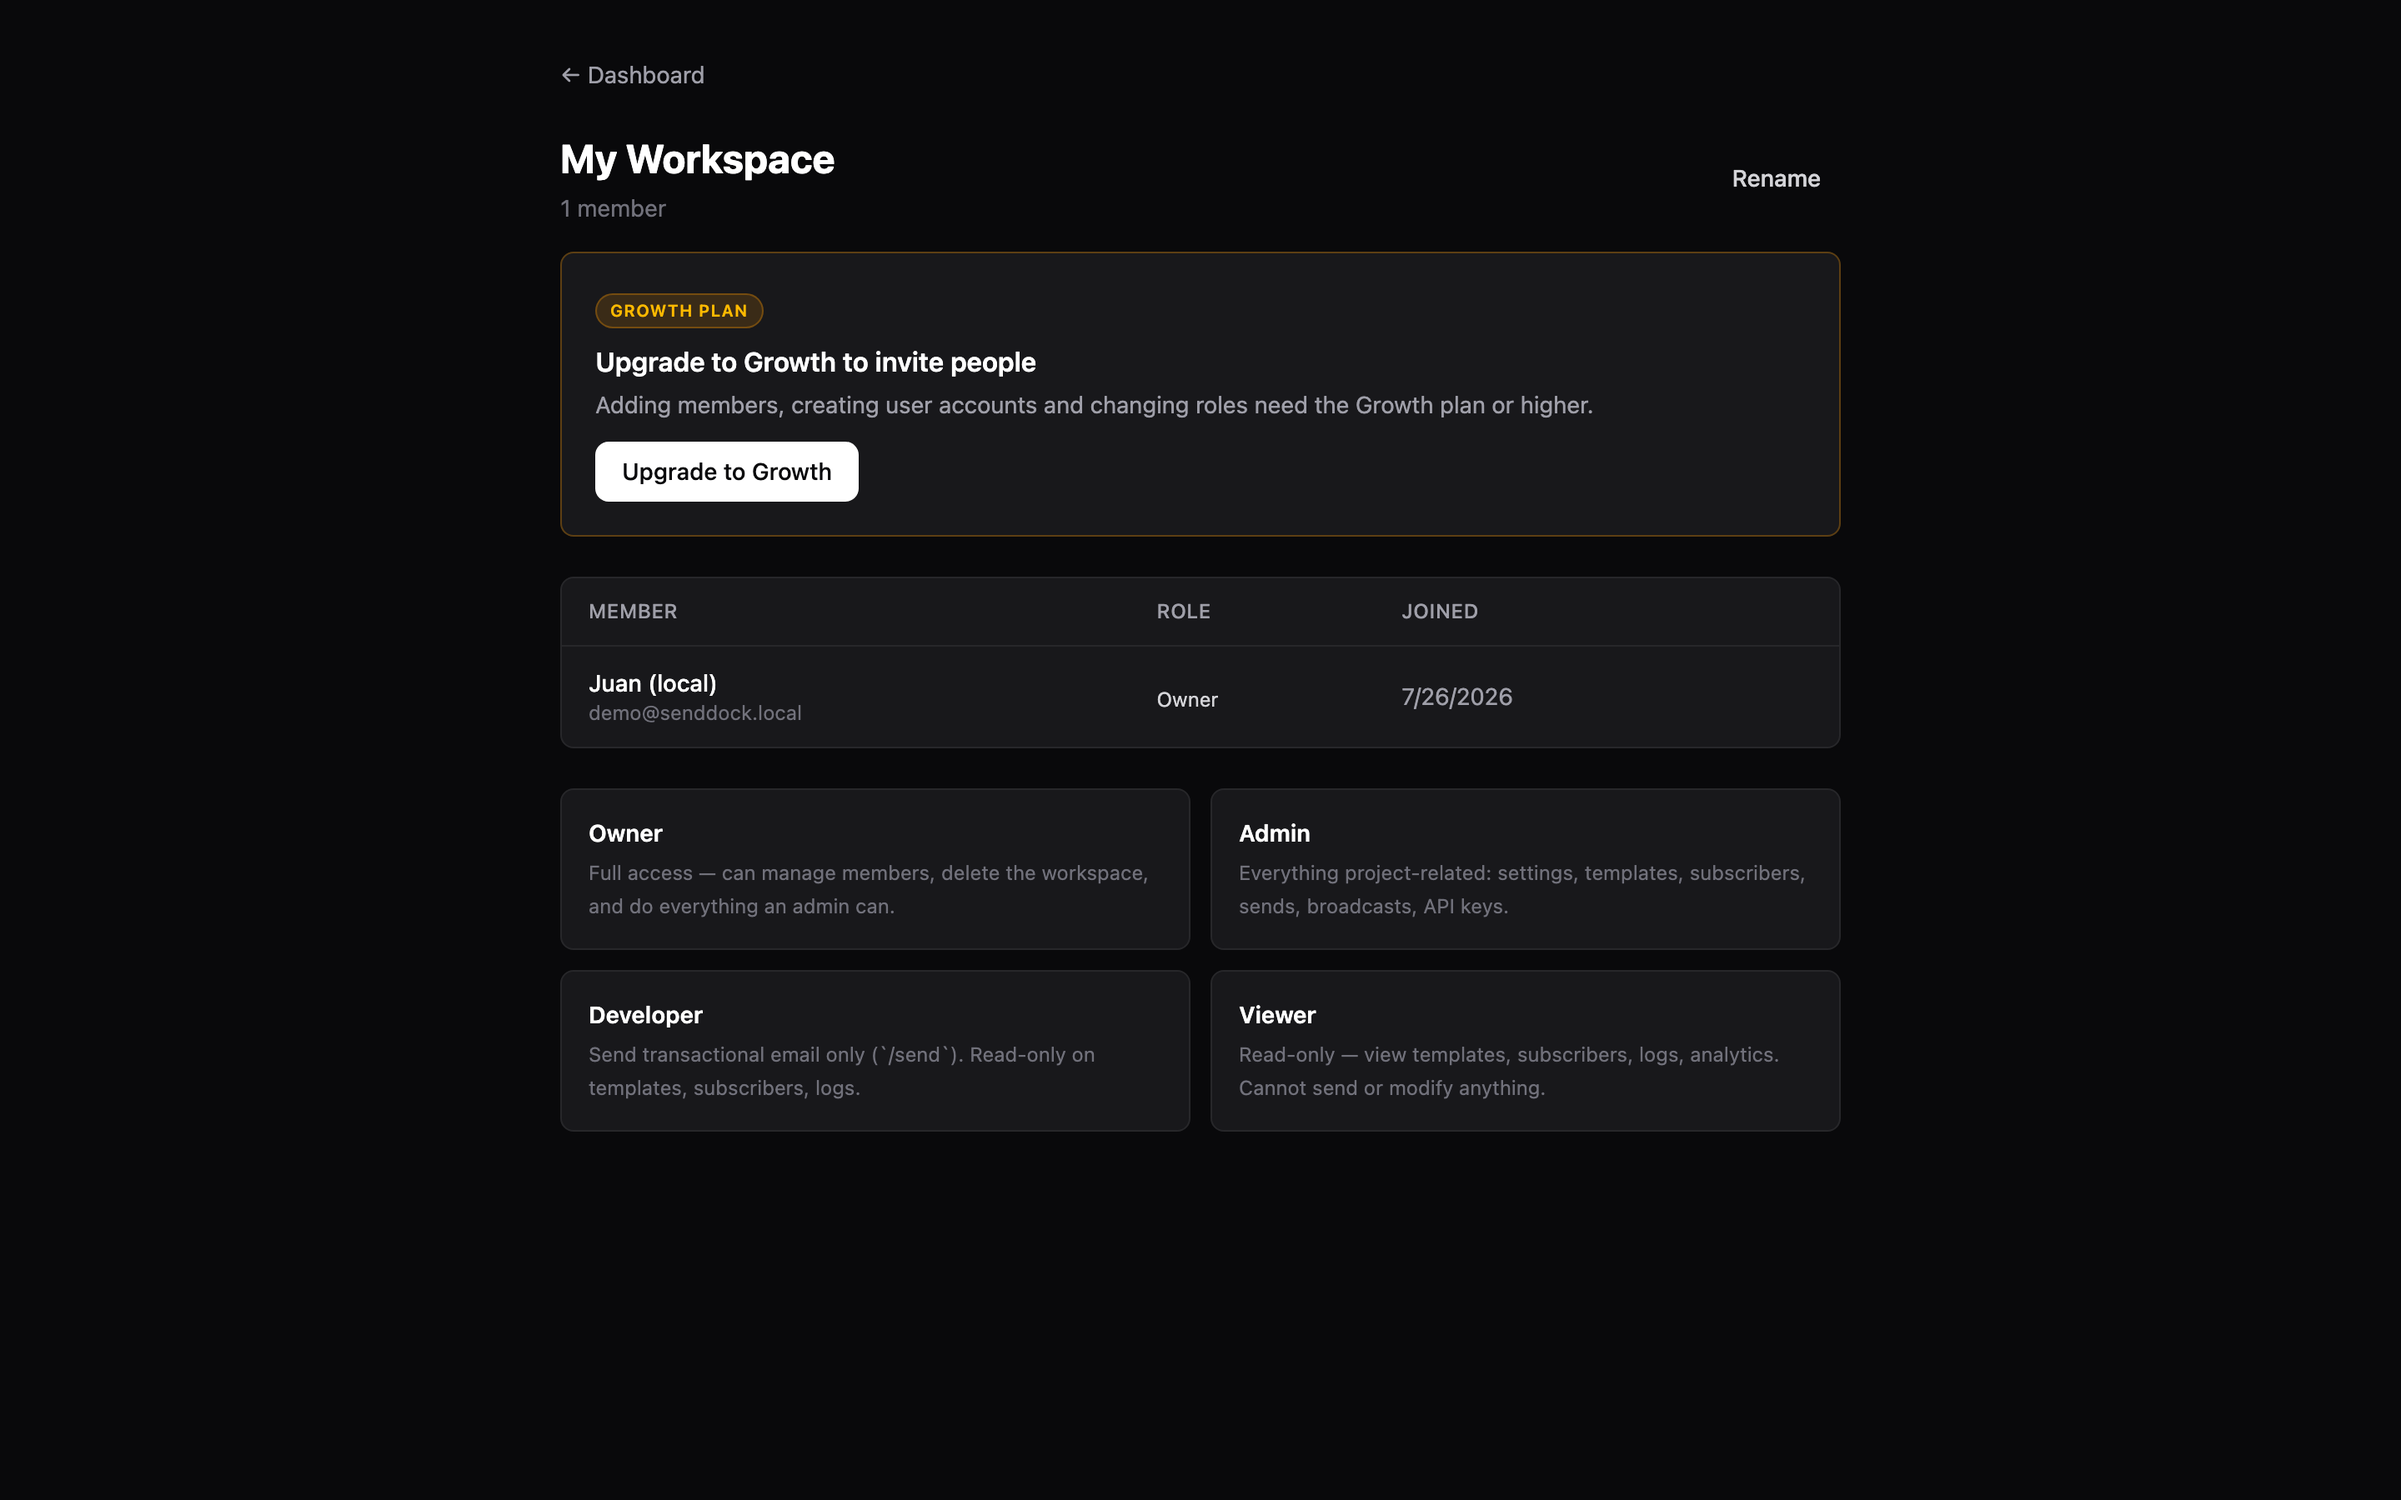
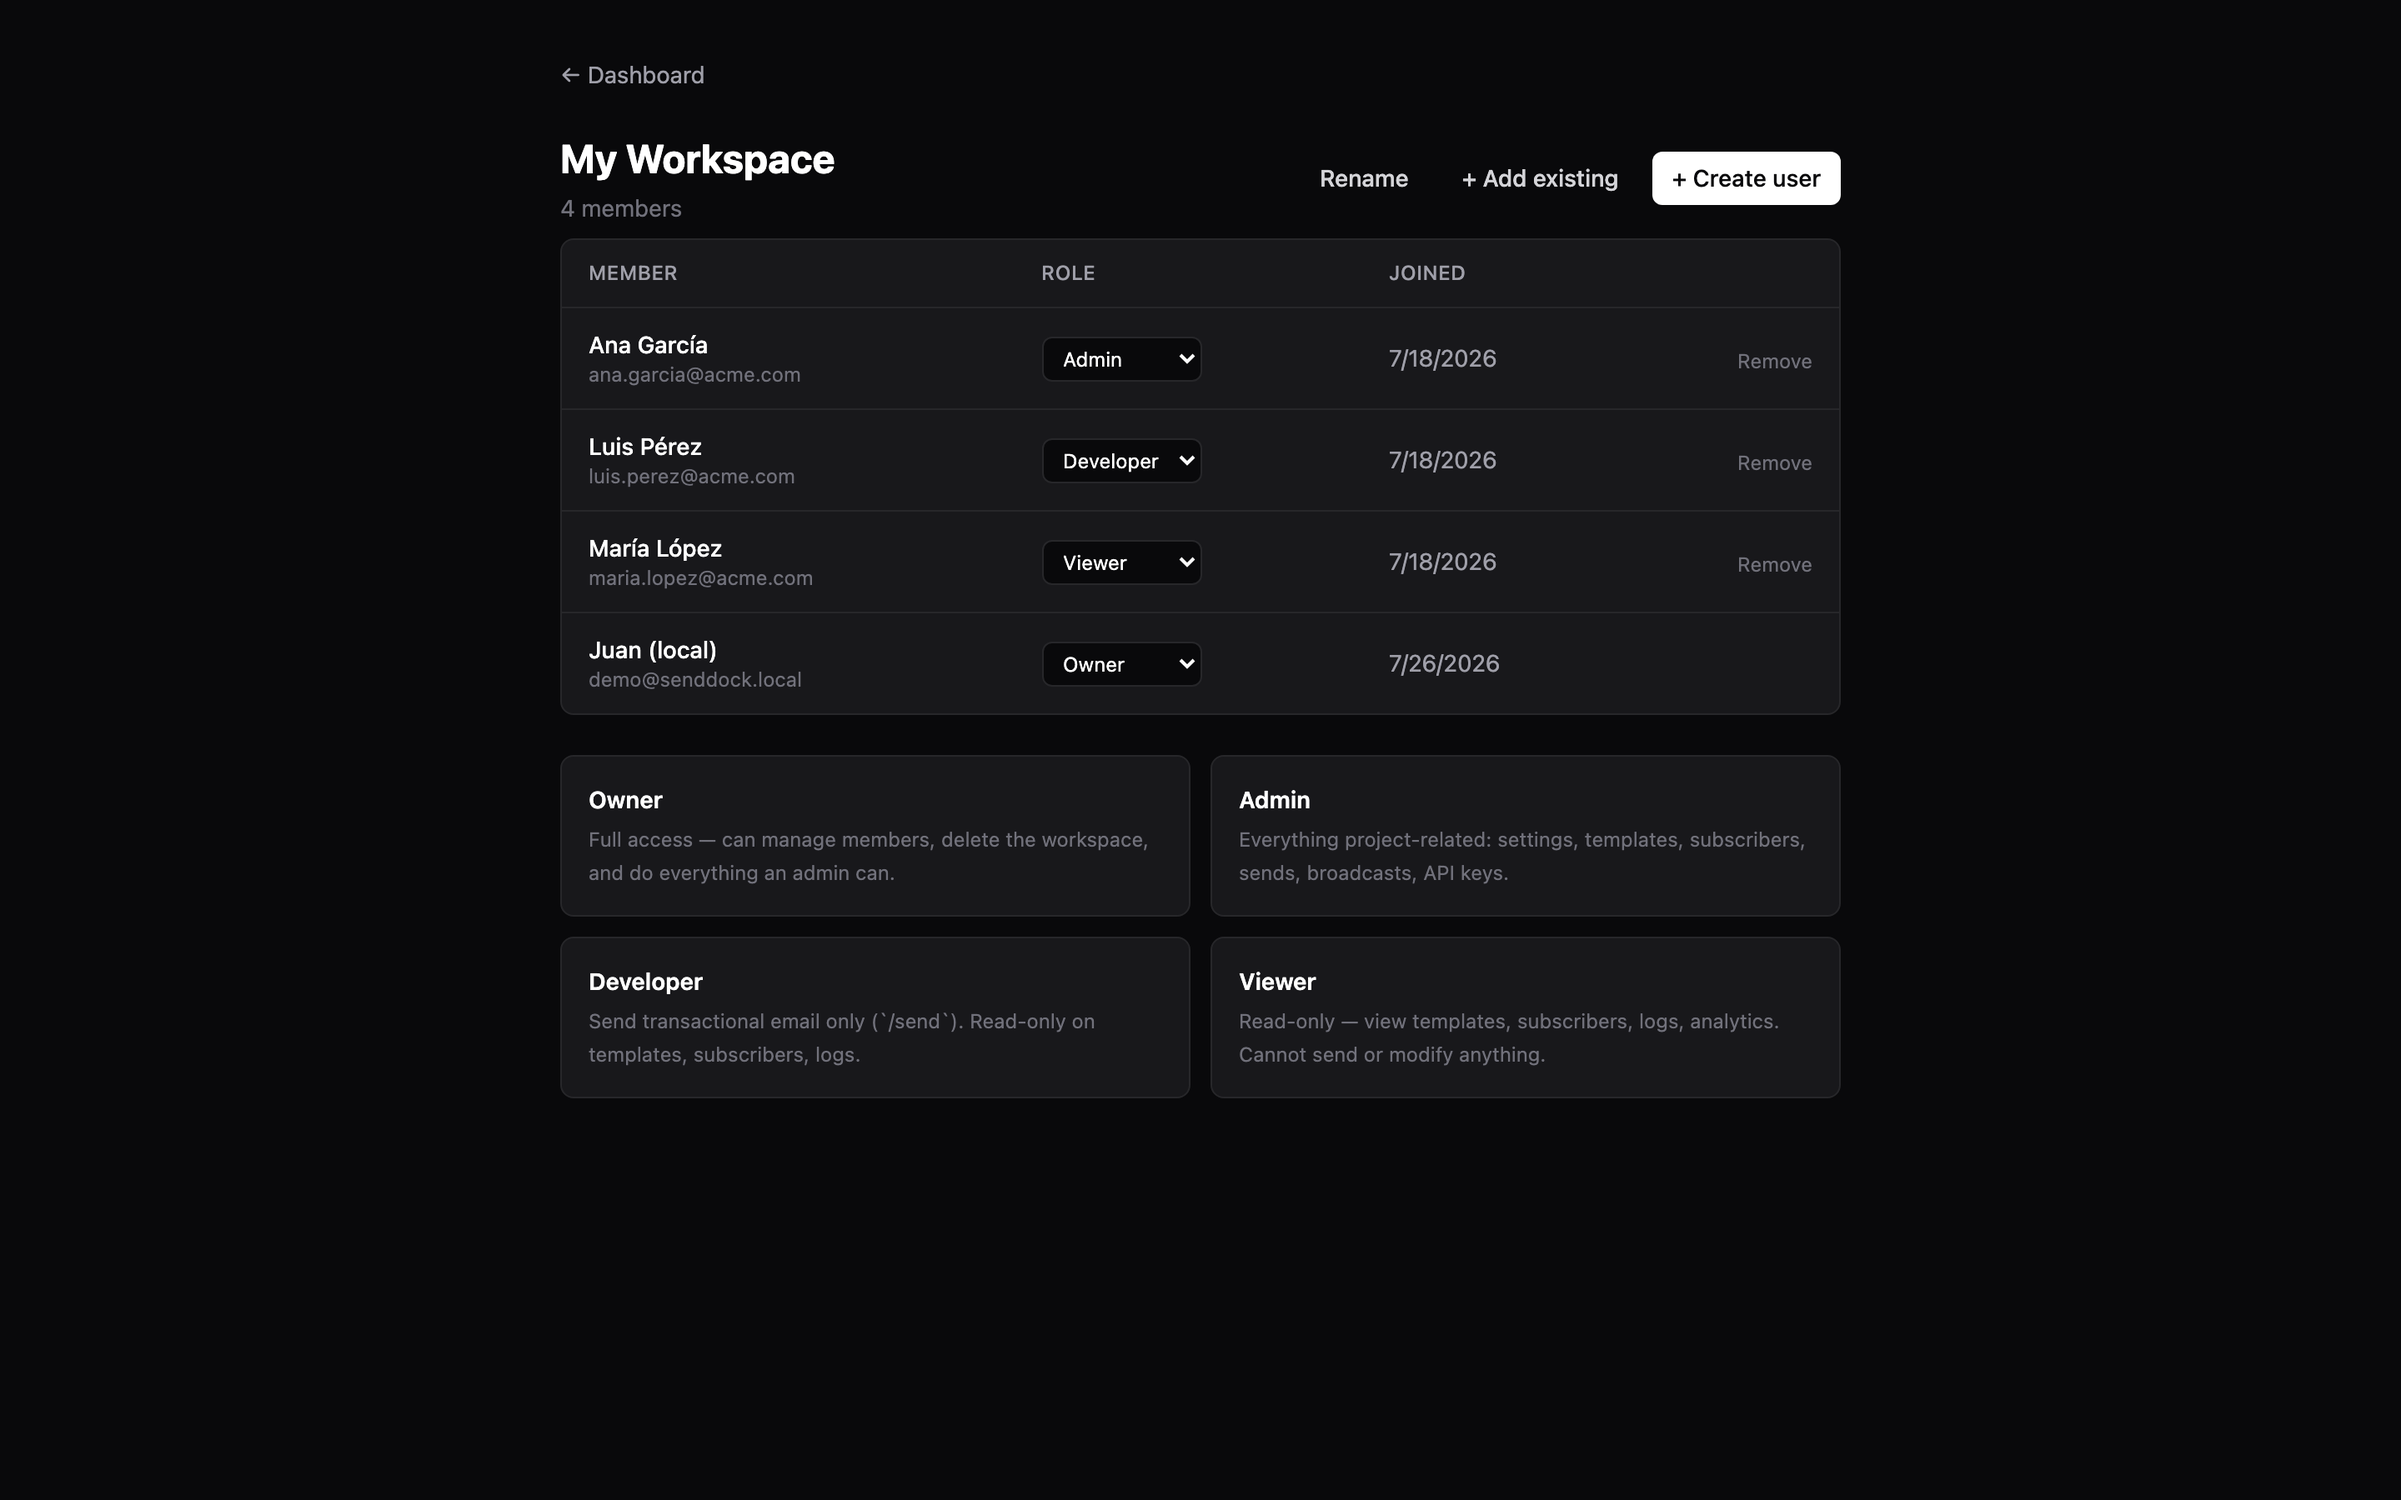
docs: show the real Team member management, not the paywall
The workspace-members screenshot showed the 'upgrade' paywall (the demo
instance wasn't on Team). Recapture it with Team active: a real member
table with several roles, inline role selects and Add/Create buttons, plus
a Create-user dialog for the Workspaces guide.

diff --git a/docs/guide/workspaces.md b/docs/guide/workspaces.md
@@ -69,6 +69,8 @@ If the email isn't registered, the form returns "no SendDock account uses that e
 
 For self-hosted, public registration is disabled — so the *only* way for a new teammate to get an account is for an owner to create it:
 
+![Creating a user and assigning a role](/screenshots/team-create-user.png)
+
 1. `+ Create user` → email + name + temporary password + role.
 2. SendDock creates the user account, hashes the password, and adds them to the workspace at the chosen role in a single transaction.
 3. Pass the temporary password to the user out of band (1Password, signed message, in person). They can change it later.
